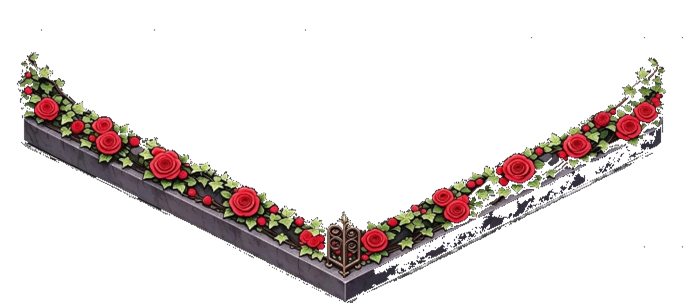
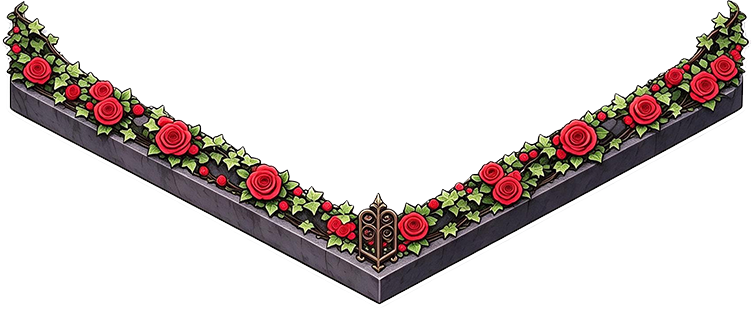
deploy: 毛茸小屋 V21 + PWA 全屏支持（API 上传）

Changed region(s): [[0.0, 0.0, 1.0, 1.0]]

diff --git a/assets/furn-pack.js b/assets/furn-pack.js
@@ -1,2 +1,2 @@
 /* 毛茸小屋家具表：工作台「同步到正式版」自动生成，别手改 */
-window.__MAOOR_PACK={"app":"maoor-furn-pack","ver":2,"date":"2026-09-29","assets":[{"fid":"f305","name":"单人床","cat":"床","w":2,"d":2,"h":40,"scale":0.97,"ox":0.03,"oy":-0.04,"flip":null,"vh":1,"sm":0,"sh":0.55,"sw":null,"sd":null,"flat":0,"glow":null,"ovr":null,"wall":false,"src":"assets/2.5d/f305.png"},{"fid":"f301","name":"单人沙发","cat":"坐具","w":1,"d":1,"h":40,"scale":1.065,"ox":0.0452,"oy":-0.0347,"flip":null,"vh":1,"sm":0,"sh":0.55,"sw":null,"sd":null,"flat":0,"glow":null,"ovr":null,"wall":false,"src":"assets/2.5d/f301.png"},{"fid":"f295","name":"圆桌","cat":"桌台","w":1,"d":1,"h":40,"scale":0.997,"ox":null,"oy":-0.04,"flip":null,"vh":1,"sm":0,"sh":0.75,"sw":null,"sd":null,"flat":0,"glow":null,"ovr":null,"wall":false,"src":"assets/2.5d/f295.png"},{"fid":"f300","name":"电视","cat":"桌台","w":2,"d":1,"h":40,"scale":0.794,"ox":0.1,"oy":-0.08,"flip":null,"vh":1,"sm":0,"sh":0,"sw":null,"sd":null,"flat":0,"glow":null,"ovr":1.4563,"wall":false,"src":"assets/2.5d/f300.png"},{"fid":"f296","name":"相框","cat":"氛围","w":2,"d":2,"h":40,"scale":1.08,"ox":null,"oy":0.1,"flip":"1","vh":1,"sm":0,"sh":0,"sw":null,"sd":null,"flat":0,"glow":null,"ovr":null,"wall":true,"src":"assets/2.5d/f296.png"},{"fid":"f298","name":"香水瓶","cat":"摆件","w":0.25,"d":0.25,"h":40,"scale":0.3,"ox":null,"oy":-0.1,"flip":null,"vh":1,"sm":1,"sh":0,"sw":null,"sd":null,"flat":0,"glow":null,"ovr":1.9104,"wall":false,"src":"assets/2.5d/f298.png"},{"fid":"f297","name":"留声机","cat":"摆件","w":0.5,"d":0.5,"h":40,"scale":0.998,"ox":0.08,"oy":-0.04,"flip":null,"vh":1,"sm":1,"sh":1,"sw":null,"sd":null,"flat":0,"glow":null,"ovr":1.5859,"wall":false,"src":"assets/2.5d/f297.png"},{"fid":"f309","name":"小提琴","cat":"摆件","w":0.5,"d":0.5,"h":40,"scale":0.792,"ox":null,"oy":null,"flip":null,"vh":1,"sm":1,"sh":0,"sw":null,"sd":null,"flat":0,"glow":null,"ovr":2.5553,"wall":false,"src":"assets/2.5d/f309.png"},{"fid":"f311","name":"书籍","cat":"摆件","w":0.25,"d":0.25,"h":40,"scale":1.164,"ox":null,"oy":null,"flip":null,"vh":1,"sm":1,"sh":0,"sw":null,"sd":null,"flat":0,"glow":null,"ovr":0.9988,"wall":false,"src":"assets/2.5d/f311.png"},{"fid":"f304","name":"书架","cat":"柜子","w":0.75,"d":2,"h":40,"scale":null,"ox":0.02,"oy":null,"flip":null,"vh":1,"sm":0,"sh":0,"sw":null,"sd":null,"flat":0,"glow":null,"ovr":2.7763,"wall":false,"src":"assets/2.5d/f304.png"},{"fid":"f302","name":"时钟","cat":"氛围","w":0.75,"d":0.75,"h":40,"scale":0.926,"ox":null,"oy":null,"flip":null,"vh":1,"sm":0,"sh":0,"sw":null,"sd":null,"flat":0,"glow":null,"ovr":1.9744,"wall":true,"src":"assets/2.5d/f302.png"},{"fid":"f314","name":"床边柜","cat":"柜子","w":1,"d":1,"h":40,"scale":0.794,"ox":null,"oy":-0.04,"flip":null,"vh":1,"sm":0,"sh":0,"sw":null,"sd":null,"flat":0,"glow":null,"ovr":1.5814,"wall":false,"src":"assets/2.5d/f314.png"},{"fid":"f312","name":"棋盘桌","cat":"桌台","w":1,"d":1,"h":40,"scale":null,"ox":null,"oy":null,"flip":null,"vh":1,"sm":0,"sh":0,"sw":null,"sd":null,"flat":0,"glow":null,"ovr":0.6567,"wall":false,"src":"assets/2.5d/f312.png"},{"fid":"f308","name":"窗户","cat":"氛围","w":2,"d":3,"h":40,"scale":null,"ox":null,"oy":0.04,"flip":null,"vh":1,"sm":0,"sh":0,"sw":null,"sd":null,"flat":0,"glow":null,"ovr":2.418,"wall":true,"src":"assets/2.5d/f308.png"},{"fid":"f299","name":"长桌","cat":"桌台","w":3,"d":1,"h":40,"scale":1.017,"ox":0.0045,"oy":-0.0342,"flip":null,"vh":1,"sm":0,"sh":0.7,"sw":null,"sd":null,"flat":0,"glow":null,"ovr":0.3202,"wall":false,"src":"assets/2.5d/f299.png"},{"fid":"f315","name":"宝石","cat":"氛围","w":1,"d":1,"h":40,"scale":0.926,"ox":null,"oy":null,"flip":null,"vh":1,"sm":0,"sh":0,"sw":null,"sd":null,"flat":0,"glow":null,"ovr":1.5224,"wall":true,"src":"assets/2.5d/f315.png"},{"fid":"f316","name":"摆件","cat":"摆件","w":0.75,"d":0.75,"h":40,"scale":0.691,"ox":-0.1,"oy":-0.18,"flip":null,"vh":1,"sm":1,"sh":0,"sw":null,"sd":null,"flat":0,"glow":null,"ovr":1.4121,"wall":false,"src":"assets/2.5d/f316.png"},{"fid":"f313","name":"落地灯","cat":"氛围","w":0.5,"d":0.5,"h":40,"scale":0.857,"ox":null,"oy":null,"flip":null,"vh":1,"sm":1,"sh":0,"sw":null,"sd":null,"flat":0,"glow":null,"ovr":5.9434,"wall":false,"src":"assets/2.5d/f313.png"},{"fid":"f317","name":"新家具","w":1,"d":1,"h":40,"scale":null,"ox":null,"oy":null,"flip":null,"vh":1,"sm":0,"sh":0,"sw":null,"sd":null,"flat":0,"glow":null,"ovr":null,"wall":false,"src":"assets/2.5d/f317.png"},{"fid":"f318","name":"新家具","w":1,"d":1,"h":40,"scale":null,"ox":null,"oy":null,"flip":null,"vh":1,"sm":0,"sh":0,"sw":null,"sd":null,"flat":0,"glow":null,"ovr":null,"wall":false,"src":"assets/2.5d/f318.png"},{"fid":"f319","name":"图片+20_抠图","cat":"摆件","w":1,"d":1,"h":40,"scale":null,"ox":null,"oy":null,"flip":null,"vh":1,"sm":0,"sh":0,"sw":null,"sd":null,"flat":0,"glow":null,"ovr":-0.0737,"wall":false,"src":"assets/2.5d/f319.png"},{"fid":"f320","name":"鸦鸦公仔","cat":"摆件","w":0.75,"d":0.75,"h":40,"scale":0.926,"ox":null,"oy":null,"flip":null,"vh":1,"sm":0,"sh":0,"sw":null,"sd":null,"flat":0,"glow":null,"ovr":1.0781,"wall":false,"src":"assets/2.5d/f320.png"}],"layout":[{"fid":"f305","gx":0,"gy":0,"flip":null,"ox":0.03,"oy":-0.04},{"fid":"f301","gx":1.75,"gy":5,"flip":null,"ox":0.0452,"oy":-0.0347},{"fid":"f295","gx":3,"gy":3.25,"flip":null,"ox":0,"oy":-0.04},{"fid":"f300","gx":4.25,"gy":0,"flip":null,"ox":0.1,"oy":-0.08},{"fid":"f296","wall":"left","u":0,"v":1,"flip":"1","ox":0,"oy":0.1},{"fid":"f298","gx":0,"gy":0,"flip":null,"ox":0,"oy":-0.1,"on":"f305","su":0,"sv":0},{"fid":"f297","gx":1.5,"gy":6.75,"flip":null,"ox":0.08,"oy":-0.04,"on":"f299","su":1,"sv":0},{"fid":"f309","gx":0,"gy":1,"flip":null,"on":"f305","su":0,"sv":1},{"fid":"f311","gx":0.5,"gy":7,"flip":null,"on":"f299","su":0,"sv":0.25},{"fid":"f304","gx":0,"gy":2.25,"flip":null,"ox":0.02,"oy":0},{"fid":"f302","wall":"back","u":0,"v":1,"flip":null},{"fid":"f314","gx":2,"gy":0,"flip":null,"ox":0,"oy":-0.04},{"fid":"f312","gx":3.25,"gy":0,"flip":null},{"fid":"f308","wall":"back","u":0,"v":1,"flip":null,"ox":0,"oy":0.04},{"fid":"f299","gx":0.5,"gy":6.75,"flip":null,"ox":0.0045,"oy":-0.0342},{"fid":"f315","wall":"back","u":0,"v":1,"flip":null},{"fid":"f316","gx":4,"gy":2,"flip":null,"ox":-0.1,"oy":-0.18},{"fid":"f313","gx":6.25,"gy":6,"flip":null},{"fid":"f317","gx":7,"gy":0,"flip":null},{"fid":"f318","gx":7,"gy":7,"flip":null},{"fid":"f319","gx":5.5,"gy":1.5,"flip":null},{"fid":"f320","gx":2,"gy":1,"flip":null}],"panel":{"cats":["坐具","桌台","柜子","摆件","床","氛围"],"order":{"坐具":["f301"],"桌台":["f295","f300","f312","f299"],"柜子":["f304","f314"],"摆件":["f298","f297","f309","f311","f316","f319","f320"],"床":["f305"],"氛围":["f296","f302","f308","f315","f313"]}},"tex":{"roof":{"id":"a25","name":"玫瑰古堡","src":"assets/tex/roof.png","adj":{"s":1.1,"x":0,"y":-0.0948}},"border":{"id":"a29","name":"玫瑰花坛","src":"assets/tex/border.png","adj":{"s":1.1,"x":0,"y":0.0761}}}};
+window.__MAOOR_PACK={"app":"maoor-furn-pack","ver":2,"date":"2026-09-29","assets":[{"fid":"f305","name":"单人床","cat":"床","w":2,"d":2,"h":40,"scale":0.97,"ox":0.03,"oy":-0.04,"flip":null,"vh":1,"sm":0,"sh":0.55,"sw":null,"sd":null,"flat":0,"glow":null,"ovr":null,"wall":false,"src":"assets/2.5d/f305.png"},{"fid":"f301","name":"单人沙发","cat":"坐具","w":1,"d":1,"h":40,"scale":1.065,"ox":0.0452,"oy":-0.0347,"flip":null,"vh":1,"sm":0,"sh":0.55,"sw":null,"sd":null,"flat":0,"glow":null,"ovr":1.2811,"wall":false,"src":"assets/2.5d/f301.png"},{"fid":"f295","name":"圆桌","cat":"桌台","w":1,"d":1,"h":40,"scale":0.997,"ox":null,"oy":-0.04,"flip":null,"vh":1,"sm":0,"sh":0.75,"sw":null,"sd":null,"flat":0,"glow":null,"ovr":null,"wall":false,"src":"assets/2.5d/f295.png"},{"fid":"f300","name":"电视","cat":"桌台","w":2,"d":1,"h":40,"scale":0.794,"ox":0.1,"oy":-0.08,"flip":null,"vh":1,"sm":0,"sh":0,"sw":null,"sd":null,"flat":0,"glow":null,"ovr":1.4563,"wall":false,"src":"assets/2.5d/f300.png"},{"fid":"f296","name":"相框","cat":"氛围","w":2,"d":2,"h":40,"scale":1.08,"ox":null,"oy":0.1,"flip":"1","vh":1,"sm":0,"sh":0,"sw":null,"sd":null,"flat":0,"glow":null,"ovr":null,"wall":true,"src":"assets/2.5d/f296.png"},{"fid":"f298","name":"香水瓶","cat":"摆件","w":0.25,"d":0.25,"h":40,"scale":0.3,"ox":null,"oy":-0.1,"flip":null,"vh":1,"sm":1,"sh":0,"sw":null,"sd":null,"flat":0,"glow":null,"ovr":1.9104,"wall":false,"src":"assets/2.5d/f298.png"},{"fid":"f297","name":"留声机","cat":"摆件","w":0.5,"d":0.5,"h":40,"scale":0.998,"ox":0.08,"oy":-0.04,"flip":null,"vh":1,"sm":1,"sh":1,"sw":null,"sd":null,"flat":0,"glow":null,"ovr":1.5859,"wall":false,"src":"assets/2.5d/f297.png"},{"fid":"f309","name":"小提琴","cat":"摆件","w":0.5,"d":0.5,"h":40,"scale":0.792,"ox":null,"oy":null,"flip":null,"vh":1,"sm":1,"sh":0,"sw":null,"sd":null,"flat":0,"glow":null,"ovr":2.5553,"wall":false,"src":"assets/2.5d/f309.png"},{"fid":"f311","name":"书籍","cat":"摆件","w":0.25,"d":0.25,"h":40,"scale":1.164,"ox":null,"oy":null,"flip":null,"vh":1,"sm":1,"sh":0,"sw":null,"sd":null,"flat":0,"glow":null,"ovr":0.9988,"wall":false,"src":"assets/2.5d/f311.png"},{"fid":"f304","name":"书架","cat":"柜子","w":0.75,"d":2,"h":40,"scale":null,"ox":0.02,"oy":null,"flip":null,"vh":1,"sm":0,"sh":0,"sw":null,"sd":null,"flat":0,"glow":null,"ovr":2.7763,"wall":false,"src":"assets/2.5d/f304.png"},{"fid":"f302","name":"时钟","cat":"氛围","w":0.75,"d":0.75,"h":40,"scale":0.926,"ox":null,"oy":null,"flip":null,"vh":1,"sm":0,"sh":0,"sw":null,"sd":null,"flat":0,"glow":null,"ovr":1.9744,"wall":true,"src":"assets/2.5d/f302.png"},{"fid":"f314","name":"床边柜","cat":"柜子","w":1,"d":1,"h":40,"scale":0.794,"ox":null,"oy":-0.04,"flip":null,"vh":1,"sm":0,"sh":1.3,"sw":null,"sd":null,"flat":0,"glow":null,"ovr":1.5814,"wall":false,"src":"assets/2.5d/f314.png"},{"fid":"f312","name":"棋盘桌","cat":"桌台","w":1,"d":1,"h":40,"scale":null,"ox":null,"oy":null,"flip":null,"vh":1,"sm":0,"sh":0,"sw":null,"sd":null,"flat":0,"glow":null,"ovr":0.6567,"wall":false,"src":"assets/2.5d/f312.png"},{"fid":"f308","name":"窗户","cat":"氛围","w":2,"d":3,"h":40,"scale":null,"ox":null,"oy":0.04,"flip":null,"vh":1,"sm":0,"sh":0,"sw":null,"sd":null,"flat":0,"glow":null,"ovr":2.418,"wall":true,"src":"assets/2.5d/f308.png"},{"fid":"f299","name":"长桌","cat":"桌台","w":3,"d":1,"h":40,"scale":1.017,"ox":0.0045,"oy":-0.0342,"flip":null,"vh":1,"sm":0,"sh":0.7,"sw":null,"sd":null,"flat":0,"glow":null,"ovr":0.3202,"wall":false,"src":"assets/2.5d/f299.png"},{"fid":"f315","name":"宝石","cat":"氛围","w":1,"d":1,"h":40,"scale":0.926,"ox":null,"oy":null,"flip":null,"vh":1,"sm":0,"sh":0,"sw":null,"sd":null,"flat":0,"glow":null,"ovr":1.5224,"wall":true,"src":"assets/2.5d/f315.png"},{"fid":"f316","name":"摆件","cat":"摆件","w":0.75,"d":0.75,"h":40,"scale":0.691,"ox":-0.1,"oy":-0.18,"flip":null,"vh":1,"sm":1,"sh":0,"sw":null,"sd":null,"flat":0,"glow":null,"ovr":1.4121,"wall":false,"src":"assets/2.5d/f316.png"},{"fid":"f313","name":"落地灯","cat":"氛围","w":0.5,"d":0.5,"h":40,"scale":0.857,"ox":null,"oy":null,"flip":null,"vh":1,"sm":1,"sh":0,"sw":null,"sd":null,"flat":0,"glow":null,"ovr":5.9434,"wall":false,"src":"assets/2.5d/f313.png"},{"fid":"f317","name":"新家具","w":1,"d":1,"h":40,"scale":null,"ox":null,"oy":null,"flip":null,"vh":1,"sm":0,"sh":0,"sw":null,"sd":null,"flat":0,"glow":null,"ovr":null,"wall":false,"src":"assets/2.5d/f317.png"},{"fid":"f318","name":"新家具","w":1,"d":1,"h":40,"scale":null,"ox":null,"oy":null,"flip":null,"vh":1,"sm":0,"sh":0,"sw":null,"sd":null,"flat":0,"glow":null,"ovr":null,"wall":false,"src":"assets/2.5d/f318.png"},{"fid":"f319","name":"图片+20_抠图","cat":"摆件","w":1,"d":1,"h":40,"scale":null,"ox":null,"oy":null,"flip":null,"vh":1,"sm":1,"sh":0,"sw":null,"sd":null,"flat":0,"glow":null,"ovr":-0.0737,"wall":false,"src":"assets/2.5d/f319.png"},{"fid":"f320","name":"鸦鸦公仔","cat":"摆件","w":0.75,"d":0.75,"h":40,"scale":0.926,"ox":null,"oy":null,"flip":null,"vh":1,"sm":1,"sh":0,"sw":null,"sd":null,"flat":0,"glow":null,"ovr":1.0781,"wall":false,"src":"assets/2.5d/f320.png"}],"layout":[{"fid":"f305","gx":0,"gy":0,"flip":null,"ox":0.03,"oy":-0.04},{"fid":"f301","gx":1.75,"gy":5,"flip":null,"ox":0.0452,"oy":-0.0347},{"fid":"f295","gx":3,"gy":3.25,"flip":null,"ox":0,"oy":-0.04},{"fid":"f300","gx":4.25,"gy":0,"flip":null,"ox":0.1,"oy":-0.08},{"fid":"f296","wall":"left","u":0,"v":1,"flip":"1","ox":0,"oy":0.1},{"fid":"f298","gx":0,"gy":0,"flip":null,"ox":0,"oy":-0.1,"on":"f305","su":0,"sv":0},{"fid":"f297","gx":1.5,"gy":6.75,"flip":null,"ox":0.08,"oy":-0.04,"on":"f299","su":1,"sv":0},{"fid":"f309","gx":0,"gy":1,"flip":null,"on":"f305","su":0,"sv":1},{"fid":"f311","gx":0.5,"gy":7,"flip":null,"on":"f299","su":0,"sv":0.25},{"fid":"f304","gx":0,"gy":2.25,"flip":null,"ox":0.02,"oy":0},{"fid":"f302","wall":"back","u":0,"v":1,"flip":null},{"fid":"f314","gx":2,"gy":0,"flip":null,"ox":0,"oy":-0.04},{"fid":"f312","gx":3.25,"gy":0,"flip":null},{"fid":"f308","wall":"back","u":0,"v":1,"flip":null,"ox":0,"oy":0.04},{"fid":"f299","gx":0.5,"gy":6.75,"flip":null,"ox":0.0045,"oy":-0.0342},{"fid":"f315","wall":"back","u":0,"v":1,"flip":null},{"fid":"f316","gx":4,"gy":2,"flip":null,"ox":-0.1,"oy":-0.18},{"fid":"f313","gx":6.25,"gy":6,"flip":null},{"fid":"f317","gx":7,"gy":0,"flip":null},{"fid":"f318","gx":7,"gy":7,"flip":null},{"fid":"f319","gx":5.5,"gy":1.5,"flip":null},{"fid":"f320","gx":2,"gy":1,"flip":null}],"panel":{"cats":["坐具","桌台","柜子","摆件","床","氛围"],"order":{"坐具":["f301"],"桌台":["f295","f300","f312","f299"],"柜子":["f304","f314"],"摆件":["f298","f297","f309","f311","f316","f319","f320"],"床":["f305"],"氛围":["f296","f302","f308","f315","f313"]}},"tex":{"floor":{"id":"a34","name":"红棕色地板","src":"assets/tex/floor.png"},"roof":{"id":"a25","name":"玫瑰古堡","src":"assets/tex/roof.png","adj":{"s":1.1,"x":0,"y":-0.0948}},"border":{"id":"a29","name":"玫瑰花坛","src":"assets/tex/border.png","adj":{"s":1.1,"x":0,"y":0.0761}}}};

diff --git a/sw.js b/sw.js
@@ -3,7 +3,7 @@
  * 发版规矩：每次发布新版，把下面的 CACHE_VER 版本号 +1（如 maoor-v2 → maoor-v3），
  *          玩家下次打开会自动丢弃旧缓存、拉取新文件。详见《PWA全屏使用说明.md》第六节。
  */
-const CACHE_VER = 'maoor-v37';
+const CACHE_VER = 'maoor-v38';
 const PRECACHE = [
   './index.html',
   './manifest.json',
@@ -31,7 +31,9 @@ const PRECACHE = [
   './assets/2.5d/f317.png','./assets/2.5d/f318.png', /* v36：09-29 新家具×2（同图两件，老板库里命名「新家具」） */
 './assets/2.5d/f319.png','./assets/2.5d/f320.png', /* v36：09-29 家具包同步（鸦鸦公仔×2；f295-f316 同名换图随包更新） */
   './boss.html', /* v31gate：老板版跳板（?boss=1 全解锁入口） */
-  './assets/tex/roof.png','./assets/tex/border.png', /* v35roof：屋顶/屋外装饰贴图（工作台同步覆盖写） */
+  './assets/tex/floor.png',
+'./assets/tex/wall.png',
+'./assets/tex/roof.png','./assets/tex/border.png', /* v35roof：屋顶/屋外装饰贴图（工作台同步覆盖写） */
   /* 家具表（工作台「⬆ 同步到正式版」写出的那份，双击 file:// 打开也要能读） */
   './assets/furn-pack.js','./assets/furn-pack.json',
   /* HUD 图标 8 张 */
